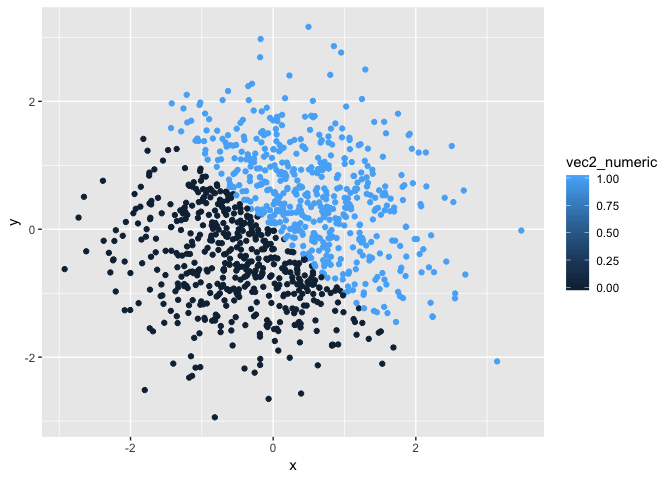
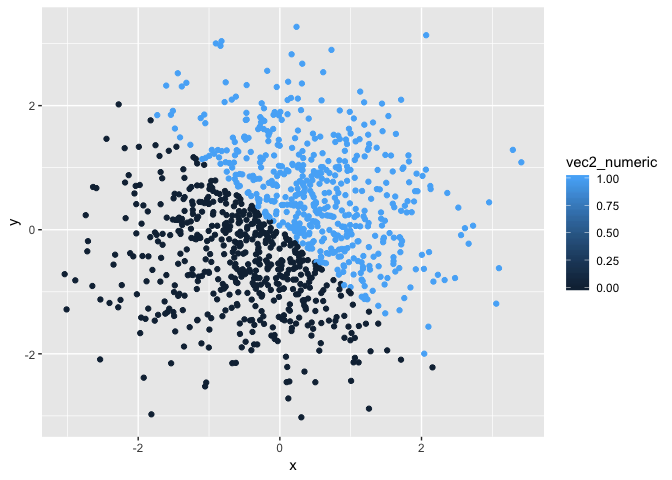
Formatting; fixed warning and result='HIDE' problem.

diff --git a/p8105_hw1_js5354.md b/p8105_hw1_js5354.md
@@ -14,30 +14,29 @@ problem1_df = tibble(
   vec_factor = factor(c("Y","N", "N", "Y","N", "N", "Y","N", "N", "N"))
 )
 
-### take the mean of each variable.
 
 mean(problem1_df$random_sample)
-## [1] 1.8
+## [1] 3.3
+
 mean(problem1_df$vec_logical)
-## [1] 0.4
+## [1] 0.6
+
 mean(problem1_df$vec_char)
-## Warning in mean.default(problem1_df$vec_char): argument is not numeric or
-## logical: returning NA
 ## [1] NA
+
 mean(problem1_df$vec_factor)
-## Warning in mean.default(problem1_df$vec_factor): argument is not numeric or
-## logical: returning NA
 ## [1] NA
 
-
-### check the class of each variable.
 
 class(problem1_df$random_sample)
 ## [1] "integer"
+
 class(problem1_df$vec_logical)
 ## [1] "logical"
+
 class(problem1_df$vec_char)
 ## [1] "character"
+
 class(problem1_df$vec_factor)
 ## [1] "factor"
 ```
@@ -46,7 +45,9 @@ Mean can be calculate for numeric and logical variables, but not for charactors 
 
 ``` r
 as.numeric(problem1_df$vec_logical)
+
 as.numeric(problem1_df$vec_char)
+
 as.numeric(problem1_df$vec_factor)
 ```
 
@@ -55,18 +56,14 @@ Factor "Y" and "N" are converted into 1 and 2 respectively. However, characters 
 We are getting this result because the as.numeric function turns factor vectors into underlying numeric representation, though meaningless. However, as.numeric function is not capable of turning letter(s) into numbers so we get "NA" when we apply this function to character vectors.
 
 ``` r
+
 as.numeric(as.factor(problem1_df$vec_char))
-```
+##  [1]  1  2  3  4  5  7  8  9 10  6
 
-    ##  [1]  1  2  3  4  5  7  8  9 10  6
-
-``` r
 as.numeric(as.character(problem1_df$vec_factor))
+## Warning: NAs introduced by coercion
+##  [1] NA NA NA NA NA NA NA NA NA NA
 ```
-
-    ## Warning: NAs introduced by coercion
-
-    ##  [1] NA NA NA NA NA NA NA NA NA NA
 
 When character varialbes are first converted to factor and then numeric variables, they are assigned positive intergers starting from 1, in an alphebetic order. On the other hand, when factor varialbes are converted to character and then to numeric, "NA"s were introduced.
 
@@ -86,14 +83,14 @@ true_proportion = sum(problem2_df$vec2_logical, na.rm=TRUE) / length(problem2_df
 ```
 
 The size of the dataset is 1000, 5 (rows, columns).
-The mean of x is 0.0286207 ; the median of x is 0.0222312.
-There are 51.1 % of cases for which the logical vector is TRUE.
+The mean of x is 0.0331124 ; the median of x is 0.0210415.
+There are 49.8 % of cases for which the logical vector is TRUE.
 
 ``` r
 ggplot(problem2_df, aes(x = x, y = y, color = vec2_logical)) + geom_point()
 ```
 
-![](p8105_hw1_js5354_files/figure-markdown_github/unnamed-chunk-6-1.png)
+![](p8105_hw1_js5354_files/figure-markdown_github/plot-1.png)
 
 ``` r
 ggsave("hw1_first_plot.pdf")
@@ -105,12 +102,12 @@ ggsave("hw1_first_plot.pdf")
 ggplot(problem2_df, aes(x = x, y = y, color = vec2_numeric)) + geom_point()
 ```
 
-![](p8105_hw1_js5354_files/figure-markdown_github/unnamed-chunk-6-2.png)
+![](p8105_hw1_js5354_files/figure-markdown_github/plot-2.png)
 
 ``` r
 ggplot(problem2_df, aes(x = x, y = y, color = vec2_factor)) + geom_point()
 ```
 
-![](p8105_hw1_js5354_files/figure-markdown_github/unnamed-chunk-6-3.png)
+![](p8105_hw1_js5354_files/figure-markdown_github/plot-3.png)
 
 All three plots produce scatter plots in which two discrete colors are seperated by a straight line y = -x. Coloring by numeric vector generates four discrete color scales evenly spaced between 0 and 1. Because the numeric vector is previously coerced from the logical vector so it only takes values of 0 and 1, the plot that is colored according to numeric vector displays dots of only two colors.
